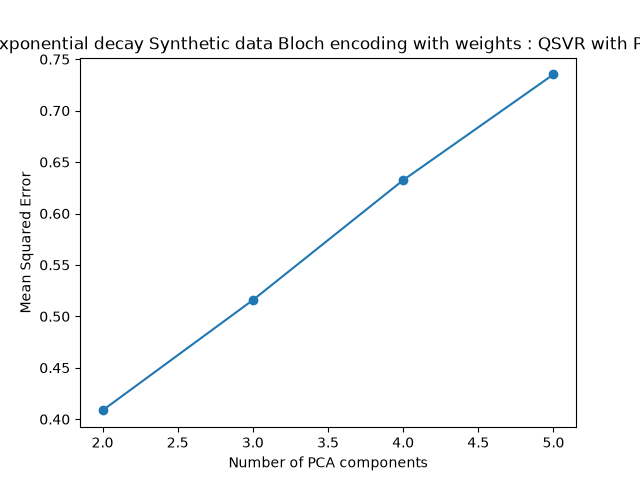
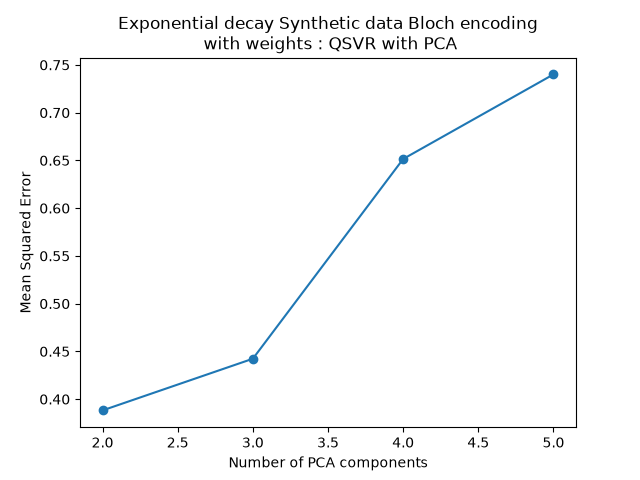
Final Push: R^2 code, remade Exponential bloch PNG

diff --git a/Scaled QML/MeanDiffFInder.py b/Scaled QML/MeanDiffFInder.py
@@ -9,11 +9,11 @@ u = pd.read_csv(IMAGES_DIR / "Synth Bloch PCA Baseline" / "QSVR_Synth_Bloch_PCA_
 """
 w = pd.read_csv(IMAGES_DIR / "California Bloch Powerlaw Seeds" / "QSVR_California_Bloch_Powerlaw_Seeds_Results.csv")
 u = pd.read_csv(IMAGES_DIR / "Bloch PCA Baseline" / "QSVR_Bloch_PCA_Baseline_Results.csv")
-w_seed = w.groupby("Seed")["MSE"].mean()
-u_seed = u.groupby("Seed")["MSE"].mean()
+weighted_mean= w.groupby("Seed")["MSE"].mean()
+unweighted_mean = u.groupby("Seed")["MSE"].mean()
 
-pct = (u_seed.mean() - w_seed.mean()) / u_seed.mean() * 100
+pchange= (unweighted_mean.mean() - weighted_mean.mean()) / unweighted_mean.mean() * 100
 
-p = stats.ttest_rel(w_seed, u_seed).pvalue
-print(f"weighted mean MSE = {w_seed.mean():.3f}, unweighted mean MSE = {u_seed.mean():.3f}")
-print(f"{pct:.1f}% lower, p = {p:.3f}")
+pval = stats.ttest_rel(weighted_mean, unweighted_mean).pvalue
+print(f"weighted mean MSE = {weighted_mean.mean():.3f}, unweighted mean MSE = {unweighted_mean.mean():.3f}")
+print(f"{pchange:.1f}% lower, p = {pval:.3f}")

diff --git a/Scaled QML/QVSR-PCA_Synth_bloch.py b/Scaled QML/QVSR-PCA_Synth_bloch.py
@@ -111,7 +111,7 @@ for g in range(2, 6):
 
 plt.figure()
 plt.plot( components,mse, marker='o')
-plt.title("exponential decay Synthetic data Bloch encoding with weights : QSVR with PCA")
+plt.title("Exponential decay Synthetic data Bloch encoding\n with weights : QSVR with PCA")
 plt.xlabel("Number of PCA components")
 plt.ylabel("Mean Squared Error")
 plt.savefig(IMAGES_DIR / "qsvr_pca_weights_bloch.png")

diff --git a/Scaled QML/MinR2Finder.py b/Scaled QML/MinR2Finder.py
@@ -1,0 +1,8 @@
+import pandas as pd
+from pathlib import Path
+
+IMAGES_DIR = Path(__file__).resolve().parent / "Scaled QML Images"
+
+for csv_file in sorted(IMAGES_DIR.glob("*/*.csv")):
+    df = pd.read_csv(csv_file)
+    print(f"{csv_file.parent.name}: mean R2 = {df['R2'].mean():.3f}")
